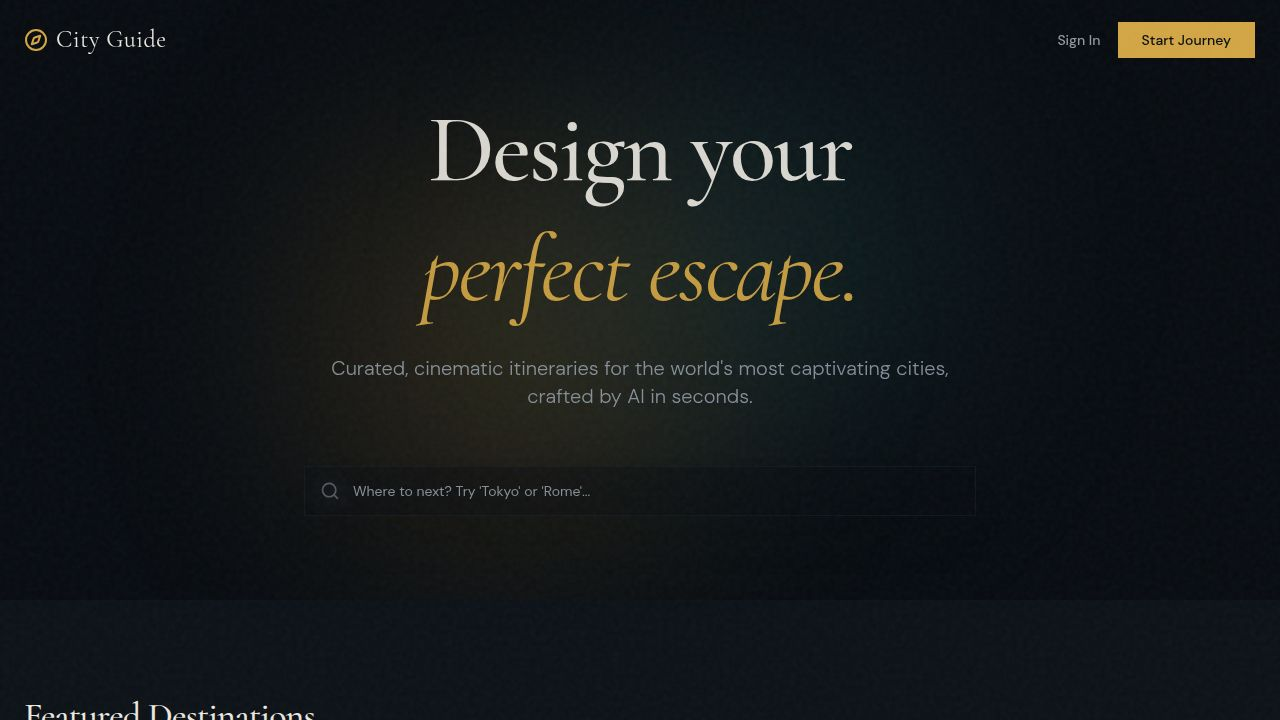
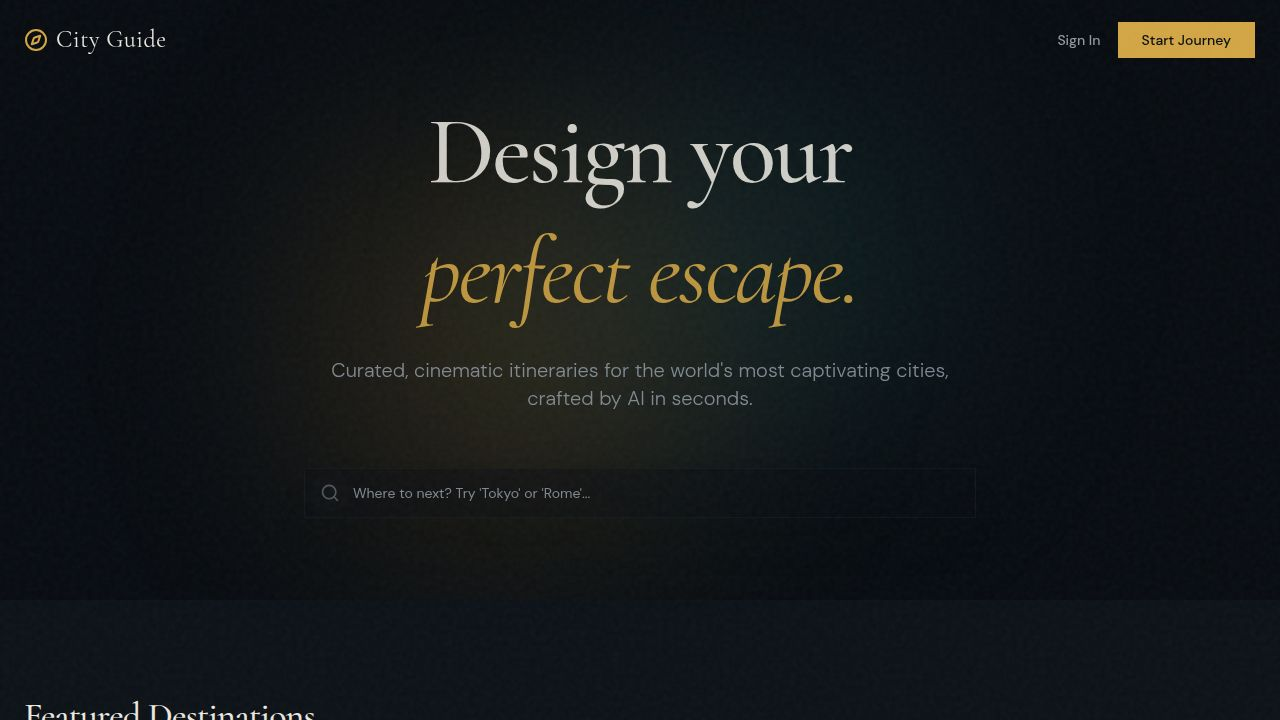
Add ability to reorder itinerary days with date updates
Implement a reorder mode for the itinerary tab, allowing users to drag and drop days to change their order. Dates are automatically recalculated based on the new sequence, and changes are optimistically displayed before saving. Includes a toggle to enter/exit reorder mode, with an auto-exit feature when switching tabs.

Replit-Commit-Author: Agent
Replit-Commit-Session-Id: a65b7afb-c165-4cbe-a1a6-a41cafe41df9
Replit-Commit-Checkpoint-Type: full_checkpoint
Replit-Commit-Event-Id: 596be220-2c37-494c-91ef-bca082948ba9
Replit-Commit-Screenshot-Url: https://storage.googleapis.com/screenshot-production-us-central1/1712694b-16e5-4064-b458-2071b6d5fcef/a65b7afb-c165-4cbe-a1a6-a41cafe41df9/I3VK924
Replit-Helium-Checkpoint-Created: true

diff --git a/artifacts/city-guide/src/pages/plan-view.tsx b/artifacts/city-guide/src/pages/plan-view.tsx
@@ -1,7 +1,7 @@
 import { useState, useCallback, useEffect, useRef } from "react";
 import { useRoute } from "wouter";
 import { motion, AnimatePresence } from "framer-motion";
-import { format } from "date-fns";
+import { format, addDays } from "date-fns";
 import { 
   useGetPlan, 
   getGetPlanQueryKey,
@@ -332,7 +332,8 @@ export default function PlanView() {
 
   // Local day order (for optimistic DnD)
   const [localDayOrder, setLocalDayOrder] = useState<number[] | null>(null);
-  useEffect(() => { setLocalDayOrder(null); }, [plan?.id]);
+  const [reorderMode, setReorderMode] = useState(false);
+  useEffect(() => { setLocalDayOrder(null); setReorderMode(false); }, [plan?.id]);
 
   // Mutations
   const { mutate: renamePlan } = useRenamePlan();
@@ -378,13 +379,19 @@ export default function PlanView() {
   // DnD sensors
   const sensors = useSensors(useSensor(PointerSensor, { activationConstraint: { distance: 5 } }));
 
-  // Ordered days (apply localDayOrder if set, else plan.dayOrder, else original)
+  // Ordered days — apply order, then reassign dates sequentially from startDate
   const orderedDays = (() => {
     if (!plan) return [];
     const days = plan.days as PlanDay[];
     const order = localDayOrder ?? (plan.dayOrder as number[] | null);
-    if (!order || order.length !== days.length) return days;
-    return order.map(i => days[i]).filter(Boolean);
+    const reordered = (!order || order.length !== days.length)
+      ? days
+      : (order.map(i => days[i]).filter(Boolean) as PlanDay[]);
+    return reordered.map((day, idx) => ({
+      ...day,
+      dayNumber: idx + 1,
+      date: format(addDays(new Date(plan.startDate), idx), "yyyy-MM-dd"),
+    }));
   })();
 
   const handleDayDragEnd = (event: DragEndEvent) => {
@@ -397,9 +404,22 @@ export default function PlanView() {
     if (oldIdx === -1 || newIdx === -1) return;
     const newOrder = arrayMove(currentOrder, oldIdx, newIdx);
     setLocalDayOrder(newOrder);
-    reorderDaysMut({ id, data: { dayOrder: newOrder } }, {
-      onSuccess: invalidatePlan,
-      onError: () => { setLocalDayOrder(null); toast({ title: "Reorder failed", variant: "destructive" }); },
+    // In reorder mode: accumulate changes, save only on Done
+    if (!reorderMode) {
+      reorderDaysMut({ id, data: { dayOrder: newOrder } }, {
+        onSuccess: invalidatePlan,
+        onError: () => { setLocalDayOrder(null); toast({ title: "Reorder failed", variant: "destructive" }); },
+      });
+    }
+  };
+
+  const exitReorderMode = () => {
+    setReorderMode(false);
+    const days = plan?.days as PlanDay[] | undefined;
+    const finalOrder = localDayOrder ?? (plan?.dayOrder as number[] | null) ?? (days ?? []).map((_, i) => i);
+    reorderDaysMut({ id, data: { dayOrder: finalOrder } }, {
+      onSuccess: () => { invalidatePlan(); toast({ title: "Order saved" }); },
+      onError: () => toast({ title: "Save failed", variant: "destructive" }),
     });
   };
 
@@ -596,7 +616,7 @@ export default function PlanView() {
 
       {/* Content */}
       <main className="flex-1 relative z-10 container mx-auto px-6 py-12">
-        <Tabs defaultValue="getting-there" className="w-full">
+        <Tabs defaultValue="getting-there" className="w-full" onValueChange={(val) => { if (val !== "itinerary" && reorderMode) exitReorderMode(); }}>
           <div className="sticky top-20 z-40 bg-background/90 backdrop-blur-md pt-4 pb-4 border-b border-border/50 mb-12">
             <TabsList className="bg-transparent h-auto p-0 flex gap-8 border-none justify-start overflow-x-auto">
               {["getting-there", "itinerary", "hotels", "restaurants", "misc", "before-you-go"].map((tab) => (
@@ -616,41 +636,70 @@ export default function PlanView() {
           </TabsContent>
 
           <TabsContent value="itinerary" className="mt-0 outline-none">
+            {isOwner && (
+              <div className="mb-8">
+                <button
+                  onClick={() => reorderMode ? exitReorderMode() : setReorderMode(true)}
+                  className={`flex items-center gap-2 text-xs font-medium uppercase tracking-widest px-3 py-2 border transition-all ${reorderMode ? "border-primary text-primary bg-primary/10" : "border-border/60 text-muted-foreground hover:text-foreground hover:border-border"}`}
+                >
+                  {reorderMode ? <Check className="w-3.5 h-3.5" /> : <GripVertical className="w-3.5 h-3.5" />}
+                  {reorderMode ? "Done reordering" : "Reorder days"}
+                </button>
+                {reorderMode && (
+                  <motion.p
+                    initial={{ opacity: 0, y: -4 }}
+                    animate={{ opacity: 1, y: 0 }}
+                    className="mt-2 text-xs text-muted-foreground/50"
+                  >
+                    Drag days into your preferred order — destinations are temporarily hidden
+                  </motion.p>
+                )}
+              </div>
+            )}
             {isOwner ? (
               <DndContext sensors={sensors} collisionDetection={closestCenter} onDragEnd={handleDayDragEnd}>
-                <SortableContext items={(orderedDays as PlanDay[]).map((_, i) => {
-                  const days = plan.days as PlanDay[];
-                  const order = localDayOrder ?? (plan.dayOrder as number[] | null);
-                  if (order && order.length === days.length) return order[i];
-                  return i;
-                })} strategy={verticalListSortingStrategy}>
-                  <div className="space-y-24">
+                <SortableContext
+                  items={(orderedDays as PlanDay[]).map((_, i) => {
+                    const days = plan.days as PlanDay[];
+                    const order = localDayOrder ?? (plan.dayOrder as number[] | null);
+                    return order && order.length === days.length ? order[i] : i;
+                  })}
+                  strategy={verticalListSortingStrategy}
+                >
+                  <motion.div
+                    layout
+                    className={reorderMode ? "space-y-2" : "space-y-24"}
+                    transition={{ duration: 0.3, ease: "easeInOut" }}
+                  >
                     {(orderedDays as PlanDay[]).map((day, idx) => {
                       const days = plan.days as PlanDay[];
                       const order = localDayOrder ?? (plan.dayOrder as number[] | null);
                       const originalIdx = order && order.length === days.length ? order[idx] : idx;
                       return (
-                        <SortableDay key={originalIdx} dayOriginalIndex={originalIdx}>
-                          <DaySection
-                            day={day}
-                            dayOriginalIndex={originalIdx}
-                            weatherByDate={weatherByDate}
-                            isOwner={isOwner}
-                            planId={id}
-                            destNoteMap={destNoteMap}
-                            onReorderDests={(destOrder) => reorderDestsMut({ id, data: { dayIndex: originalIdx, destOrder } }, { onSuccess: invalidatePlan })}
-                            onRemoveDest={(destIndex) => removeDestMut({ id, data: { dayIndex: originalIdx, destIndex } }, { onSuccess: invalidatePlan })}
-                          />
+                        <SortableDay key={originalIdx} dayOriginalIndex={originalIdx} reorderMode={reorderMode} day={day}>
+                          {!reorderMode && (
+                            <DaySection
+                              day={day}
+                              dayOriginalIndex={originalIdx}
+                              weatherByDate={weatherByDate}
+                              isOwner={isOwner}
+                              planId={id}
+                              destNoteMap={destNoteMap}
+                              revealDelay={idx * 0.06}
+                              onReorderDests={(destOrder) => reorderDestsMut({ id, data: { dayIndex: originalIdx, destOrder } }, { onSuccess: invalidatePlan })}
+                              onRemoveDest={(destIndex) => removeDestMut({ id, data: { dayIndex: originalIdx, destIndex } }, { onSuccess: invalidatePlan })}
+                            />
+                          )}
                         </SortableDay>
                       );
                     })}
-                  </div>
+                  </motion.div>
                 </SortableContext>
               </DndContext>
             ) : (
               <div className="space-y-24">
                 {(plan.days as PlanDay[]).map((day, idx) => (
-                  <DaySection key={idx} day={day} dayOriginalIndex={idx} weatherByDate={weatherByDate} isOwner={false} planId={id} destNoteMap={destNoteMap} onReorderDests={() => {}} onRemoveDest={() => {}} />
+                  <DaySection key={idx} day={day} dayOriginalIndex={idx} weatherByDate={weatherByDate} isOwner={false} planId={id} destNoteMap={destNoteMap} revealDelay={0} onReorderDests={() => {}} onRemoveDest={() => {}} />
                 ))}
               </div>
             )}
@@ -1599,8 +1648,38 @@ function BeforeYouGoTab({ plan }: { plan: TravelPlan }) {
 
 // ── Sortable day wrapper ──────────────────────────────────────────────────────
 
-function SortableDay({ dayOriginalIndex, children }: { dayOriginalIndex: number; children: React.ReactNode }) {
+function SortableDay({ dayOriginalIndex, reorderMode, day, children }: {
+  dayOriginalIndex: number;
+  reorderMode?: boolean;
+  day?: PlanDay;
+  children: React.ReactNode;
+}) {
   const { attributes, listeners, setNodeRef, transform, transition, isDragging } = useSortable({ id: dayOriginalIndex });
+
+  if (reorderMode && day) {
+    return (
+      <div
+        ref={setNodeRef}
+        style={{ transform: CSS.Transform.toString(transform), transition }}
+        {...attributes}
+        {...listeners}
+        className={`flex items-center gap-3 px-4 py-3.5 border cursor-grab active:cursor-grabbing select-none transition-all ${
+          isDragging
+            ? "border-amber-400/60 bg-amber-950/30 shadow-lg shadow-amber-400/10 z-50 relative opacity-90"
+            : "border-border bg-card hover:border-primary/40 hover:bg-card/80"
+        }`}
+      >
+        <GripVertical className="w-5 h-5 text-muted-foreground/50 shrink-0" />
+        <span className="font-serif text-lg text-primary shrink-0">Day {day.dayNumber}</span>
+        <span className="text-muted-foreground/40 text-sm">—</span>
+        <span className="text-sm text-foreground/70 truncate">{format(new Date(day.date), "EEEE, MMMM d")}</span>
+        <span className="ml-auto text-xs text-muted-foreground/40 shrink-0 pl-4">
+          {day.destinations.length} {day.destinations.length === 1 ? "stop" : "stops"}
+        </span>
+      </div>
+    );
+  }
+
   return (
     <div
       ref={setNodeRef}
@@ -1629,11 +1708,12 @@ interface DaySectionProps {
   isOwner: boolean;
   planId: number;
   destNoteMap: Map<string, string>;
+  revealDelay?: number;
   onReorderDests: (destOrder: number[]) => void;
   onRemoveDest: (destIndex: number) => void;
 }
 
-function DaySection({ day, dayOriginalIndex, weatherByDate, isOwner, planId, destNoteMap, onReorderDests, onRemoveDest }: DaySectionProps) {
+function DaySection({ day, dayOriginalIndex, weatherByDate, isOwner, planId, destNoteMap, revealDelay = 0, onReorderDests, onRemoveDest }: DaySectionProps) {
   const handleMoveUp = (i: number) => {
     if (i === 0) return;
     const order = day.destinations.map((_, idx) => idx);
@@ -1659,7 +1739,12 @@ function DaySection({ day, dayOriginalIndex, weatherByDate, isOwner, planId, des
         </p>
         <WeatherStrip day={day} weatherByDate={weatherByDate} />
       </div>
-      <div className="space-y-8 relative z-10 pl-2 md:pl-8 border-l border-border/50">
+      <motion.div
+        initial={{ opacity: 0 }}
+        animate={{ opacity: 1 }}
+        transition={{ delay: revealDelay, duration: 0.3 }}
+        className="space-y-8 relative z-10 pl-2 md:pl-8 border-l border-border/50"
+      >
         {day.destinations.map((dest, i) => (
           <DestinationCard
             key={i}
@@ -1676,7 +1761,7 @@ function DaySection({ day, dayOriginalIndex, weatherByDate, isOwner, planId, des
             onRemove={() => onRemoveDest(i)}
           />
         ))}
-      </div>
+      </motion.div>
     </div>
   );
 }